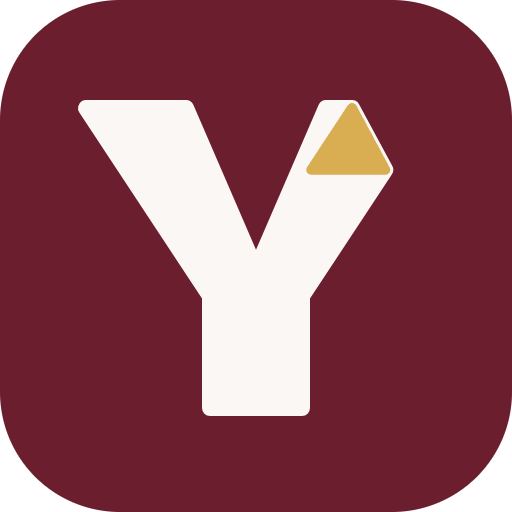
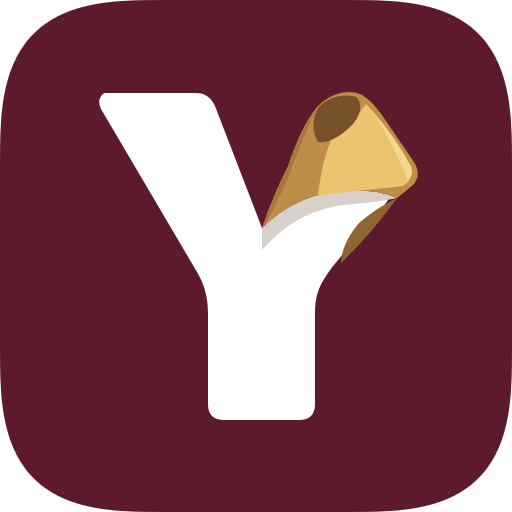
Yuva 0.7.1
- Logo nuevo (v4) en la app, el programa y la bandeja.
- Política de privacidad (PRIVACIDAD.md), que el instalador muestra antes
  de instalar.
- Compilación y publicación con GitHub Actions al subir una etiqueta, y
  demo web en GitHub Pages.
- Capturas en español e inglés en el README.
- Fuera las menciones a otras apps en el README y en «Acerca de».

diff --git a/app/sw.js b/app/sw.js
@@ -1,6 +1,10 @@
 // Service worker: guarda la app en caché para abrirla sin internet ni servidor.
 const CACHE = 'espacio-notas-__VERSION__'; // la versión la pone vite.config.ts en cada compilación
-const BASE = ['/', '/index.html', '/manifest.webmanifest', '/logo.svg'];
+// Rutas relativas al propio service worker: así sirve igual en la raíz (localhost, programa) y en una subcarpeta
+// (la demo de GitHub Pages en /Yuva/).
+const BASE = ['./', './index.html', './manifest.webmanifest', './logo.svg'];
+const RAIZ = new URL('./', self.location).pathname; // «/» o «/Yuva/»
+const RUTAS_BASE = BASE.map((p) => new URL(p, self.location).pathname);
 
 self.addEventListener('install', (e) => {
   e.waitUntil((async () => {
@@ -8,13 +12,13 @@ self.addEventListener('install', (e) => {
     await cache.addAll(BASE);
     // Precarga todos los archivos del build (Vite deja la lista en lista-build.json).
     try {
-      const res = await fetch('/lista-build.json', { cache: 'no-store' });
+      const res = await fetch('./lista-build.json', { cache: 'no-store' });
       const manifiesto = await res.json();
       const archivos = new Set();
       for (const entrada of Object.values(manifiesto)) {
-        archivos.add('/' + entrada.file);
-        (entrada.css || []).forEach((c) => archivos.add('/' + c));
-        (entrada.assets || []).forEach((a) => archivos.add('/' + a));
+        archivos.add('./' + entrada.file);
+        (entrada.css || []).forEach((c) => archivos.add('./' + c));
+        (entrada.assets || []).forEach((a) => archivos.add('./' + a));
       }
       await cache.addAll([...archivos]);
     } catch (err) {
@@ -41,13 +45,13 @@ self.addEventListener('fetch', (e) => {
     // Red primero para recibir versiones nuevas; sin red, la copia guardada.
     e.respondWith(fetch(req).then((r) => {
       const copia = r.clone();
-      caches.open(CACHE).then((c) => c.put('/index.html', copia));
+      caches.open(CACHE).then((c) => c.put('./index.html', copia));
       return r;
-    }).catch(() => caches.match('/index.html', { ignoreVary: true })));
+    }).catch(() => caches.match('./index.html', { ignoreVary: true })));
     return;
   }
   // Solo se guardan los archivos del build; lo demás (por ejemplo el servidor de desarrollo) va directo a la red.
-  if (!url.pathname.startsWith('/assets/') && !BASE.includes(url.pathname)) return;
+  if (!url.pathname.startsWith(RAIZ + 'assets/') && !RUTAS_BASE.includes(url.pathname)) return;
   // ignoreVary: el servidor puede enviar «Vary: Origin» y los scripts se piden con cabecera Origin.
   e.respondWith(caches.match(req, { ignoreVary: true }).then((hit) => hit || fetch(req).then((r) => {
     if (r.ok) { const copia = r.clone(); caches.open(CACHE).then((c) => c.put(req, copia)); }
@@ -67,6 +71,6 @@ self.addEventListener('notificationclick', (e) => {
       abierta.postMessage({ tipo: 'abrir', destino });
       return;
     }
-    await self.clients.openWindow('/' + destino);
+    await self.clients.openWindow(RAIZ + destino);
   })());
 });

diff --git a/app/src/i18n/en/ajustes.ts b/app/src/i18n/en/ajustes.ts
@@ -180,8 +180,6 @@ export const en: Record<string, string> = {
   'Programa de escritorio, versión {version}.': 'Desktop app, version {version}.',
   'versión {version}': 'version {version}',
   'Creada por': 'Created by',
-  'Aplicación propia inspirada en el funcionamiento de Notion. No usa código, nombres ni gráficos de Notion y no está afiliada a Notion Labs.':
-    'An independent app inspired by how Notion works. It uses no code, names or graphics from Notion and is not affiliated with Notion Labs.',
   'Código abierto que usa': 'Open source it uses',
   'BlockNote (editor de bloques), MPL-2.0': 'BlockNote (block editor), MPL-2.0',
   'Lucide (iconos), ISC · date-fns, MIT · Emoji Mart (datos de emojis), MIT': 'Lucide (icons), ISC · date-fns, MIT · Emoji Mart (emoji data), MIT',
@@ -195,8 +193,8 @@ export const en: Record<string, string> = {
   'Yuva se distribuye con licencia Apache-2.0. Los textos completos de las licencias de terceros están en el archivo «AVISOS-DE-TERCEROS.txt» que acompaña al programa':
     'Yuva is distributed under the Apache-2.0 license. The full texts of third-party licenses are in the “AVISOS-DE-TERCEROS.txt” file that comes with the app',
   '(carpeta «resources» de la instalación)': '(“resources” folder of the installation)',
-  'y en el repositorio de Yuva. «Yuva» y su logo son marcas de su autor. Notion es una marca de Notion Labs, Inc.':
-    'and in Yuva’s repository. “Yuva” and its logo are trademarks of its author. Notion is a trademark of Notion Labs, Inc.',
+  'y en el repositorio de Yuva. «Yuva» y su logo son marcas de su autor; los demás nombres de productos son marcas de sus dueños.':
+    'and in Yuva’s repository. “Yuva” and its logo are trademarks of its author; other product names are trademarks of their owners.',
   'Ajustes': 'Settings',
   'Secciones de ajustes': 'Settings sections',
   'Buscar en ajustes': 'Search settings',

diff --git a/app/src/componentes/Ajustes.tsx b/app/src/componentes/Ajustes.tsx
@@ -505,9 +505,6 @@ function Acerca() {
       <p className="acerca-autor">
         {trad('Creada por')} <strong>{MARCA.autor}</strong> · © {new Date().getFullYear()} {MARCA.autor}
       </p>
-      <p className="ayuda">
-        {trad('Aplicación propia inspirada en el funcionamiento de Notion. No usa código, nombres ni gráficos de Notion y no está afiliada a Notion Labs.')}
-      </p>
       <h3>{trad('Código abierto que usa')}</h3>
       <ul className="creditos">
         <li>{trad('BlockNote (editor de bloques), MPL-2.0')}</li>
@@ -520,7 +517,7 @@ function Acerca() {
       </ul>
       <p className="ayuda">
         {trad('Yuva se distribuye con licencia Apache-2.0. Los textos completos de las licencias de terceros están en el archivo «AVISOS-DE-TERCEROS.txt» que acompaña al programa')}
-        {enEscritorio ? ' ' + trad('(carpeta «resources» de la instalación)') : ''} {trad('y en el repositorio de Yuva. «Yuva» y su logo son marcas de su autor. Notion es una marca de Notion Labs, Inc.')}
+        {enEscritorio ? ' ' + trad('(carpeta «resources» de la instalación)') : ''} {trad('y en el repositorio de Yuva. «Yuva» y su logo son marcas de su autor; los demás nombres de productos son marcas de sus dueños.')}
       </p>
     </div>
   );

diff --git a/app/src/componentes/Inicio.tsx b/app/src/componentes/Inicio.tsx
@@ -93,9 +93,7 @@ function DibujoInicio() {
       </g>
       <g data-prof="-8">
         <g className="dib-monograma" transform="translate(128 93) scale(0.125)">
-          <rect width="512" height="512" rx="120" fill="#6B1E2E" />
-          <path d="M210 408 L210 296 L86 108 L186 108 L256 270 L326 108 L352 108 L385.3 169.8 L302 296 L302 408Z" fill="#FBF7F4" stroke="#FBF7F4" strokeWidth="16" strokeLinejoin="round" />
-          <path className="dib-esquina" d="M352 108 L311.3 169.8 L385.3 169.8Z" fill="#D9AE52" stroke="#D9AE52" strokeWidth="10" strokeLinejoin="round" />
+          <image href={MARCA.logo} width="512" height="512" />
         </g>
       </g>
       <g data-prof="5">

diff --git a/app/src/main.tsx b/app/src/main.tsx
@@ -52,7 +52,7 @@ if (enEscritorio) {
   vigilarBotonesVentana();
 } else if ('serviceWorker' in navigator) {
   if (import.meta.env.PROD) {
-    window.addEventListener('load', () => navigator.serviceWorker.register('/sw.js').catch(() => undefined));
+    window.addEventListener('load', () => navigator.serviceWorker.register(`${import.meta.env.BASE_URL}sw.js`, { scope: import.meta.env.BASE_URL }).catch(() => undefined));
   } else {
     // En desarrollo no debe quedar ningún service worker sirviendo copias viejas.
     navigator.serviceWorker.getRegistrations().then((rs) => rs.forEach((r) => r.unregister()));

diff --git a/app/src/lib/portadas.ts b/app/src/lib/portadas.ts
@@ -16,7 +16,7 @@ export const NOMBRES_PATRON: Record<Patron, string> = {
 
 // [fondo, trazo principal, trazo secundario, luz]
 export const PALETAS: Record<string, [string, string, string, string]> = {
-  yuva: ['#3A0F1A', '#D9AE52', '#6B1E2E', '#F1E4E6'],
+  yuva: ['#3A0F1A', '#D9AE52', '#5E1A2D', '#F1E4E6'],
   laguna: ['#11292A', '#E8A13A', '#2F5A57', '#DCE7E3'],
   marino: ['#14213D', '#F2C14E', '#3A5A8C', '#E5E5E5'],
   musgo: ['#2F3E2C', '#C9D77A', '#5F7A4A', '#EDEFE0'],

diff --git a/app/vite.config.ts b/app/vite.config.ts
@@ -15,7 +15,9 @@ function serviceWorker(): Plugin {
 }
 
 // Puerto fijo: los datos viven en el navegador y van ligados al origen (localhost:5317).
+// YUVA_BASE=/Yuva/ compila la demo para GitHub Pages (github.io/Yuva/); sin ella, la app vive en la raíz.
 export default defineConfig({
+  base: process.env.YUVA_BASE || '/',
   plugins: [react(), serviceWorker()],
   server: { port: 5317, strictPort: true },
   preview: { port: 5317, strictPort: true },

diff --git a/app/src/lib/puesta.ts b/app/src/lib/puesta.ts
@@ -148,7 +148,7 @@ export function vigilarPuesta() {
 
 // ---------- chispas ----------
 
-const COLORES = ['#d9ae52', '#6b1e2e', '#c9a04a', '#b9475f'];
+const COLORES = ['#d9ae52', '#5e1a2d', '#c9a04a', '#b9475f'];
 
 function movimientoReducido() {
   return document.documentElement.dataset.movimiento === 'reducido' || window.matchMedia('(prefers-reduced-motion: reduce)').matches;

diff --git a/app/src/estilos/atelier.css b/app/src/estilos/atelier.css
@@ -34,7 +34,7 @@
 
 /* Con los colores Yuva y el acento por defecto, el botón principal es vino; el dorado queda para marcas y foco. */
 :root[data-paleta='yuva'][data-acento='azafran'] {
-  --principal: #6b1e2e;
+  --principal: #5e1a2d; /* el vino del logo */
   --principal-sobre: #fff7f8;
   --principal-hover: #84283c;
 }

diff --git a/app/src/marca.ts b/app/src/marca.ts
@@ -8,6 +8,6 @@ export const MARCA = {
   nombre: 'Yuva',
   autor: 'GeomatiX',
   lema: trad('Notas, documentos, tareas y bases de datos, sin internet'),
-  logo: '/logo.svg',
-  version: '0.7.0',
+  logo: `${import.meta.env.BASE_URL}logo.svg`,
+  version: '0.7.1',
 };

diff --git a/README.md b/README.md
@@ -11,6 +11,7 @@
 
 <p align="center">
   <a href="../../releases/latest">Descargar para Windows</a> ·
+  <a href="https://geomatix7.github.io/Yuva/">Probar en el navegador</a> ·
   <a href="#qué-trae">Qué trae</a> ·
   <a href="#privacidad">Privacidad</a> ·
   <a href="#english">English</a>
@@ -22,13 +23,20 @@
 
 Yuva es un espacio de trabajo con páginas anidadas, un editor de bloques y bases de datos con varias vistas. **Todo se guarda en tu equipo**: no hay cuentas ni servidores, y funciona sin conexión. Está en **español e inglés** (Ajustes › Preferencias › Idioma; por defecto, el del sistema).
 
-<!-- Capturas: añade aquí 2 o 3 imágenes o un GIF corto (por ejemplo docs/capturas/inicio.png). -->
+<p align="center">
+  <img src="docs/capturas/es-inicio.png" alt="Inicio de Yuva: saludo, accesos rápidos y puesta a punto" width="49%">
+  <img src="docs/capturas/es-centro.png" alt="Plantilla Centro de mando con indicadores" width="49%">
+  <img src="docs/capturas/es-tareas.png" alt="Base de datos de tareas en vista de tabla" width="49%">
+  <img src="docs/capturas/es-proyecto.png" alt="Cronograma de hitos de un proyecto" width="49%">
+</p>
 
 ## Descargar
 
 1. Ve a **[Releases](../../releases/latest)** y descarga `Yuva-X.Y.Z-instalador.exe` (Windows 10 y 11, 64 bits).
 2. Ábrelo. Se instala solo para tu usuario, sin permisos de administrador.
 3. Mientras el instalador no esté firmado, Windows puede mostrar «Windows protegió su PC». Pulsa **Más información › Ejecutar de todas formas**.
+
+**¿Sin instalar nada?** Pruébala en el navegador: **[geomatix7.github.io/Yuva](https://geomatix7.github.io/Yuva/)**. Es la misma app; tus notas quedan en ese navegador y no llegan a ningún servidor. Para usarla en serio, mejor el programa de Windows: guarda en una carpeta tuya, hace copias diarias y avisa de los recordatorios aunque cierres la ventana.
 
 **Actualizaciones:** Yuva revisa esta página de Releases y, cuando hay una versión nueva, te avisa. Antes de instalarla comprueba que el archivo sea exactamente el publicado. La revisión automática se puede apagar en **Ajustes › Programa**.
 
@@ -45,6 +53,8 @@ Yuva es un espacio de trabajo con páginas anidadas, un editor de bloques y base
 - **Yuva MCP:** si lo activas, Claude (Claude Desktop o Claude Code) puede buscar, leer y escribir en tus páginas a través de una conexión local, con modo de solo lectura y un registro de lo que hizo.
 
 ## Privacidad
+
+Política completa: [PRIVACIDAD.md](PRIVACIDAD.md).
 
 - Tus páginas viven en tu equipo, en `%APPDATA%\espacio-notas`. Desinstalar Yuva no las borra.
 - No hay cuentas, analítica ni telemetría.
@@ -90,15 +100,19 @@ Estructura:
 
 Creada por **GeomatiX**, con **Claude** (Anthropic) como asistente de desarrollo.
 
-Yuva es un proyecto independiente, inspirado en cómo funcionan las herramientas de notas por bloques. No usa código, nombres ni gráficos de Notion y no está afiliada a Notion Labs, Inc.
-
 ---
 
 ## English
+
+<p align="center">
+  <img src="docs/capturas/en-inicio.png" alt="Yuva home screen in English" width="49%">
+  <img src="docs/capturas/en-proyecto.png" alt="Project template with indicators" width="49%">
+</p>
 
 **Yuva** (Turkish for *nest* and *home*) is a local-first workspace for Windows and the web: nested pages, a block editor, databases with table, board, calendar, timeline, chart and map views, templates, reminders, encrypted backups and an optional local MCP server so Claude can work with your notes.
 
 - Everything stays on your device: no account, no telemetry, and it works offline.
 - Available in English and Spanish (it follows your system language; change it in Settings › Preferences › Language).
-- Download the installer from [Releases](../../releases/latest). The app updates itself from this repository and verifies every download (SHA-512).
+- Download the installer from [Releases](../../releases/latest), or try it in your browser at [geomatix7.github.io/Yuva](https://geomatix7.github.io/Yuva/).
+- Privacy policy: [PRIVACIDAD.md](PRIVACIDAD.md) (Spanish and English). The app updates itself from this repository and verifies every download (SHA-512).
 - Code: Apache-2.0. The "Yuva" name and logo are reserved (see [MARCA.md](MARCA.md)).

diff --git a/PRIVACIDAD.md b/PRIVACIDAD.md
@@ -1,0 +1,69 @@
+# Privacidad · Privacy
+
+*English below.*
+
+**Vigente desde el 2026-11-18 (versión 0.7.1).**
+
+Yuva guarda todo en tu equipo. No tiene cuentas ni servidores propios, y no recoge estadísticas, analítica ni telemetría. El autor no recibe ningún dato tuyo.
+
+## Qué se guarda y dónde
+
+- **Tus páginas, bases de datos, archivos y ajustes** quedan en tu equipo:
+  - En el programa de Windows, en `%APPDATA%\espacio-notas`.
+  - En la versión web, en el almacenamiento de tu navegador.
+- **Las copias de seguridad** van a la carpeta que elijas (de entrada, `Documentos\Yuva\Copias`). Pueden ir cifradas.
+- **Desinstalar Yuva no borra tus datos.** Si quieres borrarlos, elimina esa carpeta.
+
+## Cuándo se conecta a internet
+
+Yuva solo se conecta en estos casos:
+
+| Función | A dónde se conecta | Qué recibe ese servicio | Cuándo |
+|---|---|---|---|
+| Buscar actualizaciones | GitHub (`github.com/GeomatiX7/Yuva/releases`) | Tu dirección IP y la versión que pides | Cada 6 horas, mientras esté encendida en **Ajustes › Programa** |
+| Mapas (vista Mapa) | OpenStreetMap (`tile.openstreetmap.org`) | Tu IP y la zona del mapa que miras | Al abrir un mapa |
+| Clima y búsqueda de lugares | Open-Meteo (`open-meteo.com`) | Tu IP y la ciudad o las coordenadas que eliges | Al usar el bloque de clima o la propiedad «Lugar» |
+| Contenido incrustado (YouTube, Spotify, Vimeo…) | El servicio del enlace | Lo que ese servicio recoja al cargar su reproductor | Al pegar o abrir un enlace incrustado |
+| Calendarios en línea (ICS) | La dirección que tú escribas | Tu IP | Al sincronizar ese calendario |
+| Yuva MCP (Claude) | Solo tu propio equipo (`127.0.0.1`) | — | Si lo activas en **Ajustes › Funciones**; viene apagado |
+
+**Para apagarlo:**
+- **Ajustes › Privacidad › Funciones con internet** apaga los mapas, el clima, los lugares, el contenido incrustado y los calendarios en línea.
+- **Ajustes › Programa › Buscar actualizaciones solo** apaga la revisión de actualizaciones. Con esa opción apagada, solo se revisa cuando pulsas «Buscar ahora».
+
+Cada servicio tiene su propia política de privacidad:
+- [GitHub](https://docs.github.com/site-policy/privacy-policies/github-general-privacy-statement)
+- [OpenStreetMap](https://osmfoundation.org/wiki/Privacy_Policy)
+- [Open-Meteo](https://open-meteo.com/en/terms)
+
+## Contacto
+
+Si tienes dudas, abre un *issue* en [github.com/GeomatiX7/Yuva](https://github.com/GeomatiX7/Yuva/issues).
+
+---
+
+# Privacy (English)
+
+**Effective 2026-11-18 (version 0.7.1).**
+
+Yuva keeps everything on your device. It has no accounts and no servers of its own, and it collects no statistics, analytics or telemetry. The author receives no data about you.
+
+**What is stored and where:**
+- **Pages, databases, files and settings** stay on your device:
+  - In the Windows app, in `%APPDATA%\espacio-notas`.
+  - In the web version, in your browser's storage.
+- **Backups** go to the folder you choose and can be encrypted.
+- **Uninstalling Yuva does not delete your data.** To delete it, remove that folder.
+
+**When Yuva connects to the internet:**
+- **Update check:** GitHub receives your IP address and the requested version, every 6 hours while it is enabled in **Settings › Desktop app**.
+- **Maps:** OpenStreetMap receives your IP and the map area you view.
+- **Weather and place search:** Open-Meteo receives your IP and the city or coordinates you pick.
+- **Embeds and online ICS calendars:** the linked service receives your IP, only when you use them.
+- **Yuva MCP:** connects only to your own computer (`127.0.0.1`). It is off by default.
+
+**To turn these off:**
+- **Settings › Privacy › Online features** turns off maps, weather, places, embeds and online calendars.
+- **Settings › Desktop app › Check for updates automatically** turns off the update check.
+
+**Questions:** open an issue at [github.com/GeomatiX7/Yuva](https://github.com/GeomatiX7/Yuva/issues).
